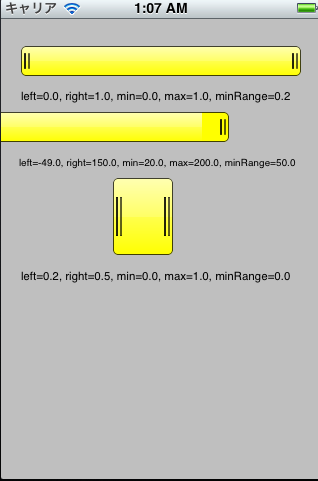
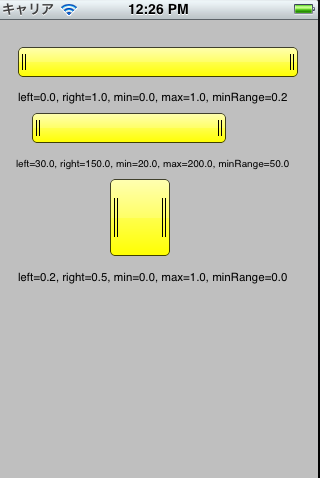
bug fix

Changed region(s): [[0.0, 0.0, 1.0, 1.0]]

diff --git a/SARRangeSlider/SARRangeSlider/SARRangeSlider.m b/SARRangeSlider/SARRangeSlider/SARRangeSlider.m
@@ -47,15 +47,17 @@ typedef enum HandleDirection : NSUInteger {
 	// draw two vertical black line
 	CGFloat lineLength = rect.size.height / 2;
 	CGFloat lineTop = rect.size.height / 2 / 2;
+	CGFloat lineOneX = HANDLE_WIDTH / 2 - 1.5;
+	CGFloat lineTwoX = HANDLE_WIDTH / 2 + 1.5;
 	UIBezierPath *bpath = [UIBezierPath bezierPath];
 	bpath.lineWidth = 1.0;
 	[[UIColor blackColor] setStroke];
-	[bpath moveToPoint:CGPointMake( HANDLE_WIDTH / 2 - 2, lineTop )];
-	[bpath addLineToPoint:CGPointMake( HANDLE_WIDTH / 2 - 2, lineTop + lineLength)];
+	[bpath moveToPoint:CGPointMake( lineOneX, lineTop )];
+	[bpath addLineToPoint:CGPointMake( lineOneX, lineTop + lineLength)];
 	[bpath closePath];
 	[bpath stroke];
-	[bpath moveToPoint:CGPointMake( HANDLE_WIDTH / 2 + 2, lineTop )];
-	[bpath addLineToPoint:CGPointMake( HANDLE_WIDTH / 2 + 2, lineTop + lineLength)];
+	[bpath moveToPoint:CGPointMake( lineTwoX, lineTop )];
+	[bpath addLineToPoint:CGPointMake( lineTwoX, lineTop + lineLength)];
 	[bpath closePath];
 	[bpath stroke];
 }
@@ -66,51 +68,31 @@ typedef enum HandleDirection : NSUInteger {
 @implementation SARRangeSlider
 {
 	UIView *sliderView;
-	UIView *leftHandleView;
-	UIView *rightHandleView;
+	SARRangeSliderHandleView *leftHandleView;
+	SARRangeSliderHandleView *rightHandleView;
 }
 
 #pragma mark property
-- (void)setLeftValue:(float)leftValue {
-	if (leftValue < self.minimumValue) {
-		leftValue = self.minimumValue;
-	}
-    
-	if (leftValue + self.minimumRange > self.rightValue) {
-		leftValue = self.rightValue - self.minimumRange;
-	}
-	
-	_leftValue = leftValue;
-    
-	[self setNeedsLayout];
-}
-
-- (void)setRightValue:(float)rightValue {
-	if (rightValue > self.maximumValue) {
-		rightValue = self.maximumValue;
-	}
-
-    if (rightValue - self.minimumRange < self.leftValue) {
-		rightValue = self.leftValue + self.minimumRange;
-	}
-	
-	_rightValue = rightValue;
-    
-	[self setNeedsLayout];
-}
-
-- (void)setMinimumRange:(float)minimumRange {
-	_minimumRange = minimumRange;
-	[self setNeedsLayout];
-}
-
 - (void)setMinimumValue:(float)minimumValue {
 	_minimumValue = minimumValue;
+	_leftValue = MAX(_leftValue, _minimumValue);
 	[self setNeedsLayout];
 }
 
 - (void)setMaximumValue:(float)maximumValue {
 	_maximumValue = maximumValue;
+	_rightValue = MIN(_rightValue, _maximumValue);
+	[self setNeedsLayout];
+}
+
+- (void)setLeftValue:(float)leftValue rightValue:(float)rightValue {
+	leftValue = MAX(leftValue, self.minimumValue);
+	rightValue = MIN(rightValue, self.maximumValue);
+	if (leftValue > rightValue) {
+		leftValue = rightValue;
+	}
+	_leftValue = leftValue;
+	_rightValue = rightValue;
 	[self setNeedsLayout];
 }
 
@@ -137,9 +119,8 @@ typedef enum HandleDirection : NSUInteger {
 	self.backgroundColor = [UIColor clearColor];
 	self.minimumValue = 0.0;
 	self.maximumValue = 1.0;
-	self.leftValue = 0.0;
-	self.rightValue = 1.0;
-	self.minimumRange = 0.0;
+	self.lockLength = 0.0;
+	[self setLeftValue:0.0 rightValue:1.0];
 	
     // setup base layer
 	sliderView = [[UIView alloc] initWithFrame:CGRectMake(0, 0, self.bounds.size.width, self.bounds.size.height)];
@@ -195,7 +176,7 @@ typedef enum HandleDirection : NSUInteger {
     CGFloat availableWidth = self.frame.size.width - HANDLE_WIDTH * 2;
     
     CGFloat rangeValue = self.maximumValue - self.minimumValue;
-    
+
     CGFloat leftPoint = floorf((self.leftValue - self.minimumValue) / rangeValue * availableWidth);
     CGFloat rightPoint = floorf((self.rightValue - self.minimumValue) / rangeValue * availableWidth);
     if (isnan(leftPoint)) {
@@ -221,7 +202,11 @@ typedef enum HandleDirection : NSUInteger {
         CGPoint translation = [gesture translationInView:self];
         CGFloat rangeValue = self.maximumValue - self.minimumValue;
         CGFloat availableWidth = self.frame.size.width - HANDLE_WIDTH * 2;
-        self.leftValue += translation.x / availableWidth * rangeValue;
+		CGFloat addValue = translation.x / availableWidth * rangeValue;
+		CGFloat newRange = self.rightValue - (self.leftValue + addValue);
+		if (newRange >= self.lockLength) {
+			[self setLeftValue:self.leftValue+addValue rightValue:self.rightValue];
+		}
         
         [gesture setTranslation:CGPointZero inView:self];
         
@@ -234,7 +219,11 @@ typedef enum HandleDirection : NSUInteger {
         CGPoint translation = [gesture translationInView:self];
         CGFloat rangeValue = self.maximumValue - self.minimumValue;
         CGFloat availableWidth = self.frame.size.width - HANDLE_WIDTH * 2;
-        self.rightValue += translation.x / availableWidth * rangeValue;
+		CGFloat addValue = translation.x / availableWidth * rangeValue;
+		CGFloat newRange = (self.rightValue + addValue) - self.leftValue;
+		if (newRange >= self.lockLength) {
+			[self setLeftValue:self.leftValue rightValue:self.rightValue+addValue];
+		}
         
         [gesture setTranslation:CGPointZero inView:self];
         

diff --git a/SARRangeSlider/SARViewController.m b/SARRangeSlider/SARViewController.m
@@ -27,15 +27,15 @@
 {
     [super viewDidLoad];
 	// Do any additional setup after loading the view, typically from a nib.
-	oRangeSlider1.minimumRange = 0.2;
-	// TODO:範囲を初期値から変更するとバグる
+	oRangeSlider1.lockLength = 0.2;
+	
 	oRangeSlider2.minimumValue = 20;
 	oRangeSlider2.maximumValue = 200;
-	oRangeSlider2.minimumRange = 50;
-	oRangeSlider2.leftValue = 0;
-	oRangeSlider2.rightValue = 150;
-	oRangeSlider3.leftValue = 0.2;
-	oRangeSlider3.rightValue = 0.5;
+	oRangeSlider2.lockLength = 50;
+	[oRangeSlider2 setLeftValue:30 rightValue:150];
+
+	[oRangeSlider3 setLeftValue:0.2 rightValue:0.5];
+
 	[self rangeSlider1ValueChanged:oRangeSlider1];
 	[self rangeSlider2ValueChanged:oRangeSlider2];
 	[self rangeSlider3ValueChanged:oRangeSlider3];
@@ -58,15 +58,15 @@
 	return (interfaceOrientation != UIInterfaceOrientationPortraitUpsideDown);
 }
 - (IBAction)rangeSlider1ValueChanged:(SARRangeSlider *)sender {
-	oLabel1.text = [NSString stringWithFormat:@"left=%.1f, right=%.1f, min=%.1f, max=%.1f, minRange=%.1f", sender.leftValue, sender.rightValue, sender.minimumValue, sender.maximumValue, sender.minimumRange];
+	oLabel1.text = [NSString stringWithFormat:@"left=%.1f, right=%.1f, min=%.1f, max=%.1f, minRange=%.1f", sender.leftValue, sender.rightValue, sender.minimumValue, sender.maximumValue, sender.lockLength];
 }
 
 - (IBAction)rangeSlider2ValueChanged:(SARRangeSlider *)sender {
-	oLabel2.text = [NSString stringWithFormat:@"left=%.1f, right=%.1f, min=%.1f, max=%.1f, minRange=%.1f", sender.leftValue, sender.rightValue, sender.minimumValue, sender.maximumValue, sender.minimumRange];
+	oLabel2.text = [NSString stringWithFormat:@"left=%.1f, right=%.1f, min=%.1f, max=%.1f, minRange=%.1f", sender.leftValue, sender.rightValue, sender.minimumValue, sender.maximumValue, sender.lockLength];
 }
 
 - (IBAction)rangeSlider3ValueChanged:(SARRangeSlider *)sender {
-	oLabel3.text = [NSString stringWithFormat:@"left=%.1f, right=%.1f, min=%.1f, max=%.1f, minRange=%.1f", sender.leftValue, sender.rightValue, sender.minimumValue, sender.maximumValue, sender.minimumRange];
+	oLabel3.text = [NSString stringWithFormat:@"left=%.1f, right=%.1f, min=%.1f, max=%.1f, minRange=%.1f", sender.leftValue, sender.rightValue, sender.minimumValue, sender.maximumValue, sender.lockLength];
 }
 
 @end

diff --git a/SARRangeSlider/SARRangeSlider/SARRangeSlider.h b/SARRangeSlider/SARRangeSlider/SARRangeSlider.h
@@ -8,11 +8,30 @@
 
 #import <UIKit/UIKit.h>
 
+typedef struct SARRangeSettings {
+	float lockLength;
+	float minimum;
+	float maximum;
+} SARRangeSetting;
+
+//typedef struct SARRangeValue {
+//	float left;
+//	float right;
+//}SARRangeValue;
+
 @interface SARRangeSlider : UIControl
 
-@property (nonatomic) float leftValue;
-@property (nonatomic) float rightValue;
-@property (nonatomic) float minimumRange;
+//@property (nonatomic) SARRangeSetting setting;
+
+// lockRength is the minimum range of the leftValue and rightValue.
+// This property work only by user operation, but it is not work by programmatically changed.
+@property (nonatomic) float lockLength;
+
 @property (nonatomic) float minimumValue;
 @property (nonatomic) float maximumValue;
+@property (nonatomic, readonly) float leftValue;
+@property (nonatomic, readonly) float rightValue;
+- (void)setLeftValue:(float)leftValue rightValue:(float)rightValue;
+//- (void)setMinimum:(float)minimum maximum:(float)maximum lockLength:(float)lockLength;
+//@property (nonatomic) SARRangeValue value;
 @end

diff --git a/README.md b/README.md
@@ -9,7 +9,7 @@ created at **iphone_dev_jp東京 iPhone/Mac Hackathon(2012/08/25)**
 
 ####TODO-List
 
-* 最小最大値を初期値以外に変更すると表示がおかしくなるバグ(上から2個目)
+* ~~最小最大値を初期値以外に変更すると表示がおかしくなるバグ(上から2個目)~~
 * 動画サムネイルを表示するために、中央部を透過にする。
-* 縦棒がぼやけているのを直す。
+* ~~縦棒がぼやけているのを直す。~~
 * 見た目をもうちょっとなんとかする。
